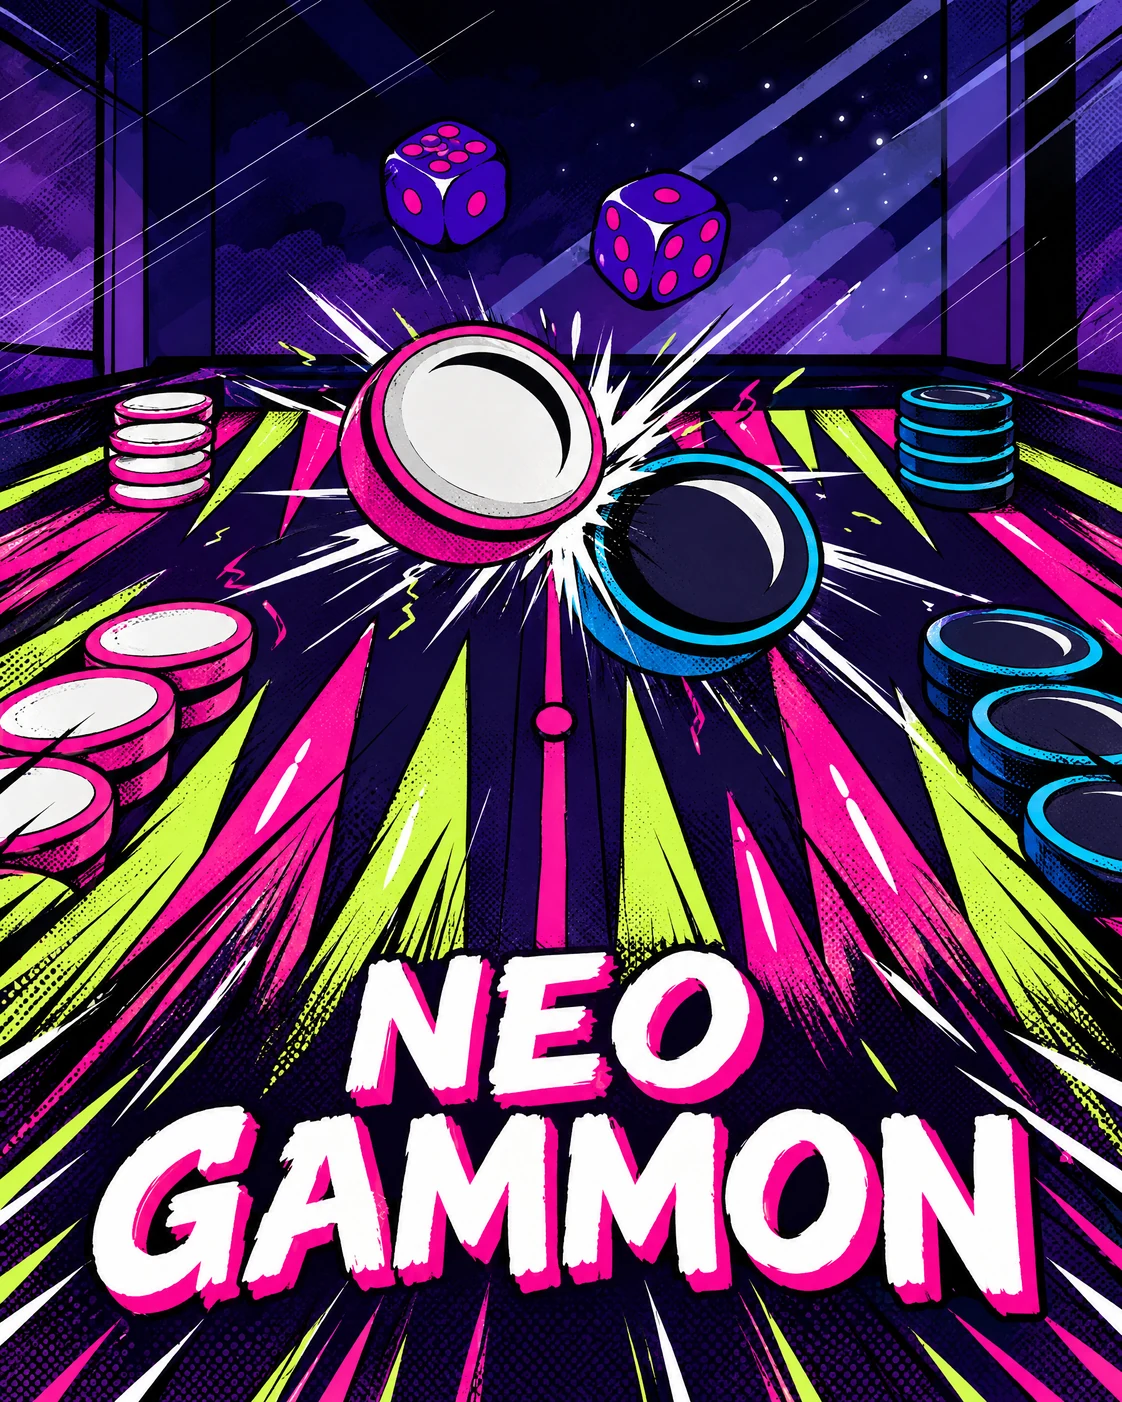
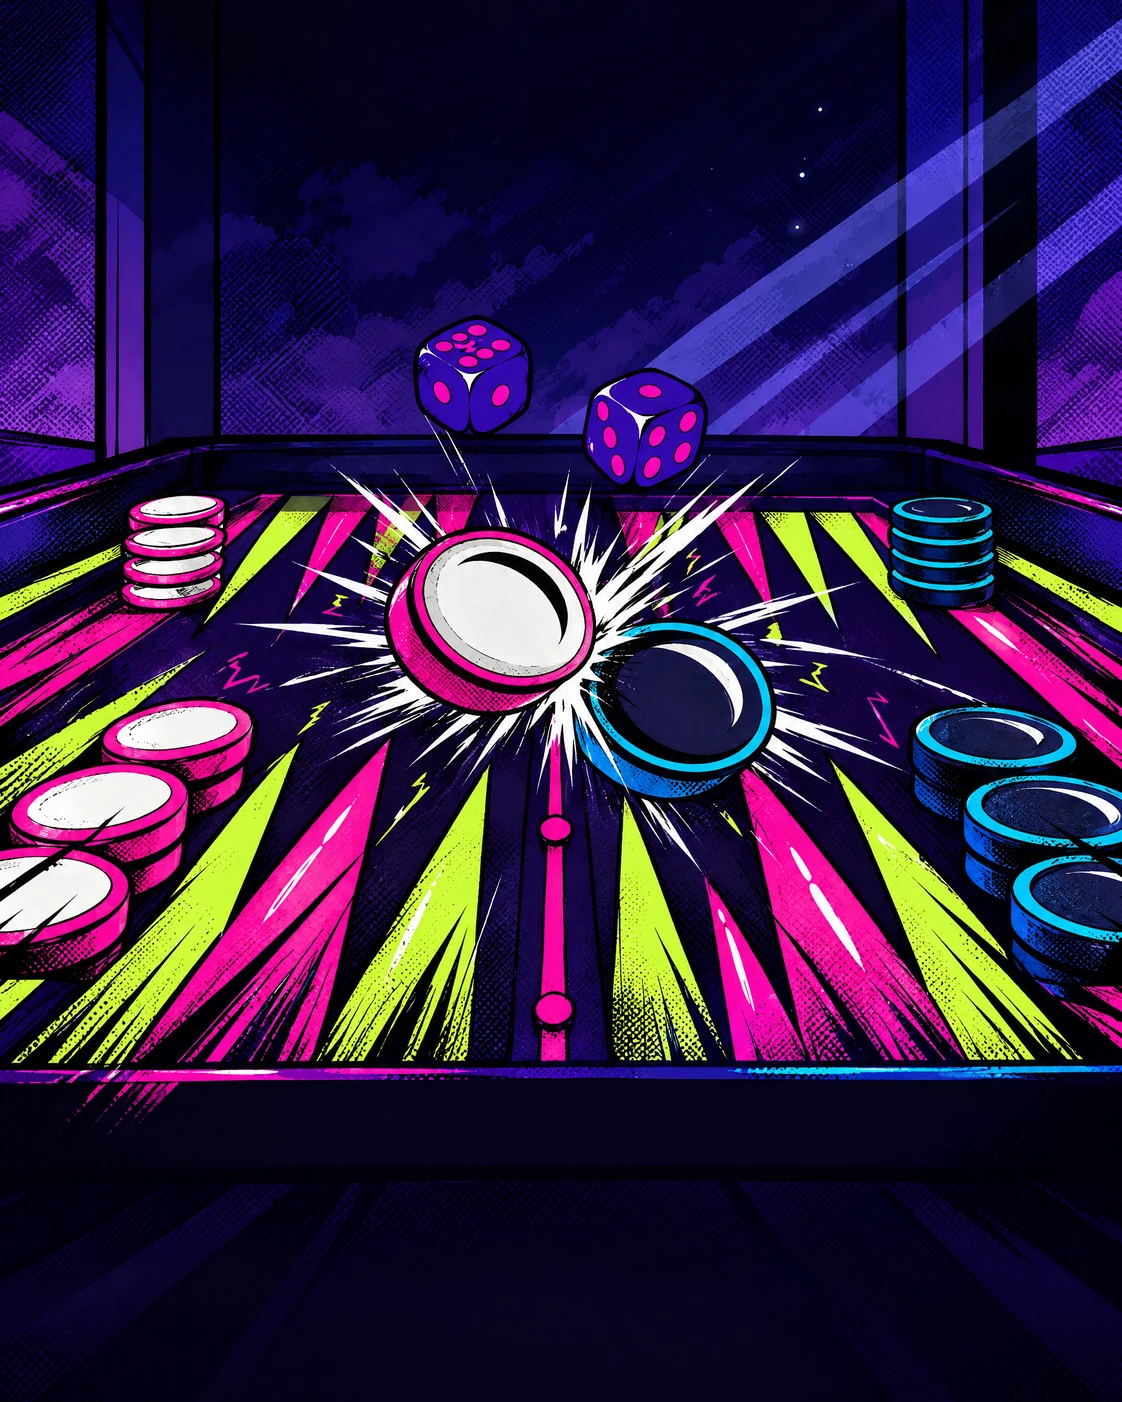
Neo Gammon: lobby card without title
The chain.wtf lobby lays its own title over the top of the card and its VIEW GAME button over the bottom, so the new 4:5 card carries no lettering: the top centre stays naturally calm and the figures sit between about 30 and 80 percent of the height.

diff --git a/design/GAMECARD.md b/design/GAMECARD.md
@@ -27,3 +27,7 @@ To list the cover in the host catalog, the manifest needs `"assets": { "coverUrl
 — a field of manifest schema version 2 (`public/game.manifest.json` is still version 1).
 
 Originals (PNG): kept outside the repository.
+
+## Card without title (28 Oct 2026)
+
+`public/art/gamecard-4x5.webp` (1122×1402) now holds a card without lettering. The chain.wtf lobby lays its own title over the top of the card (with a two-line title down to about 26 %), a Live badge above it and its VIEW GAME button over the bottom (86–94 %), and shows the card at about 0.72:1, so the card carries no lettering, the top centre stays naturally calm and the figures sit between about 30 and 80 % of the height. GPT Image 2.5 (Higgsfield) job `94288741-2f1d-4e63-bbe2-84bc8c069a1e` (1792×2240, scaled uncropped), painted from the titled card above and the game's own board, checkers and dice. The square cover is unchanged.
